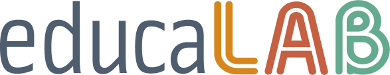
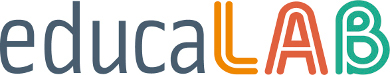
Images reduced and README adaptation

Changed region(s): [[0.5538, 0.0, 1.0, 0.9867]]

diff --git a/README.md b/README.md
@@ -1,7 +1,11 @@
 # The Open edX Platform by INTEF
-[![Mooc INTEF](/logo_moocintef.png?raw=true)](http://mooc.educalab.es) [![Educalab](/educalab_linea.jpg?raw=true)](http://educalab.es)
+### MOOC.EDUCALAB.ES
+### NOOC.EDUCALAB.ES
+###SPOOC.EDUCALAB.ES 
 
-# MOOC.EDUCALAB.ES - NOOC.EDUCALAB.ES - SPOOC.EDUCALAB.ES 
+[![Educalab](/educalab_linea.jpg?raw=true)](http://educalab.es) [![Mooc INTEF](/logo_moocintef.png?raw=true)](http://mooc.educalab.es)
+
+
 **Powered By**
 [![Open edX](/open_edX-logo.png)](https://open.edx.org/) [![BeDjango](/BeDjango_logo.jpg)](http://www.bedjango.com/)
 
